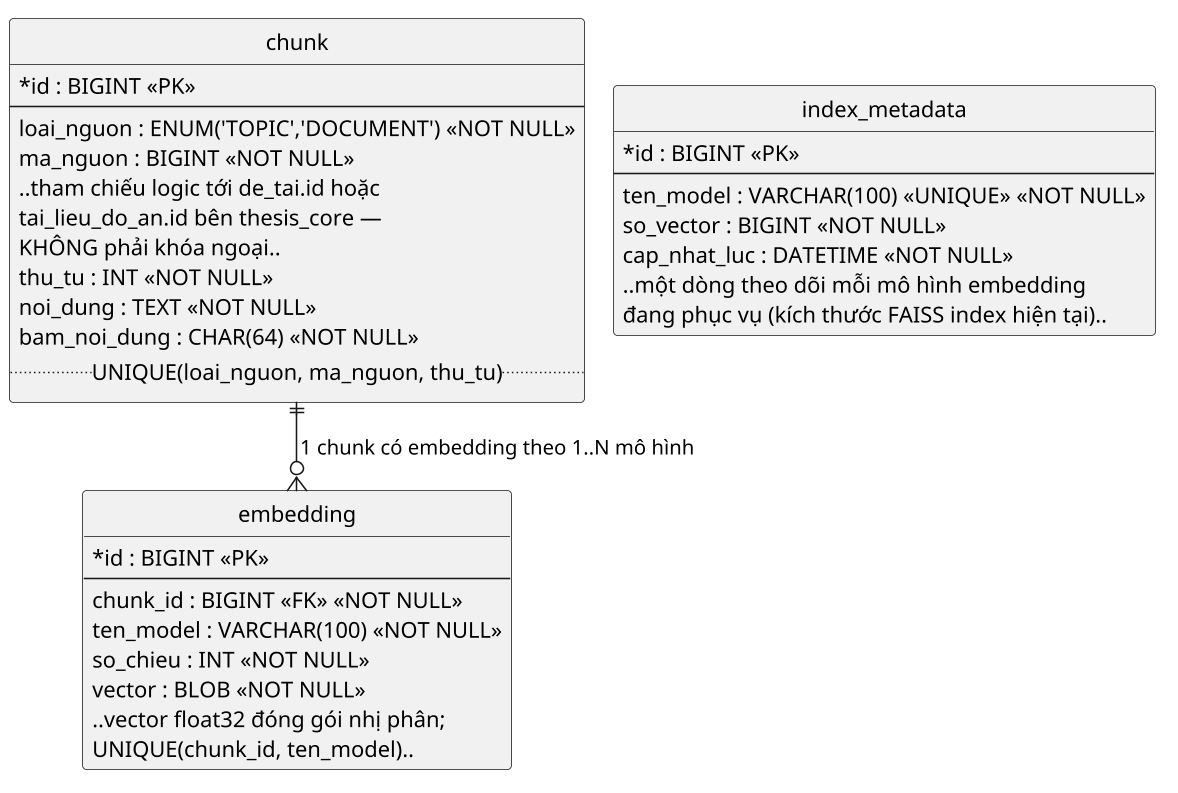
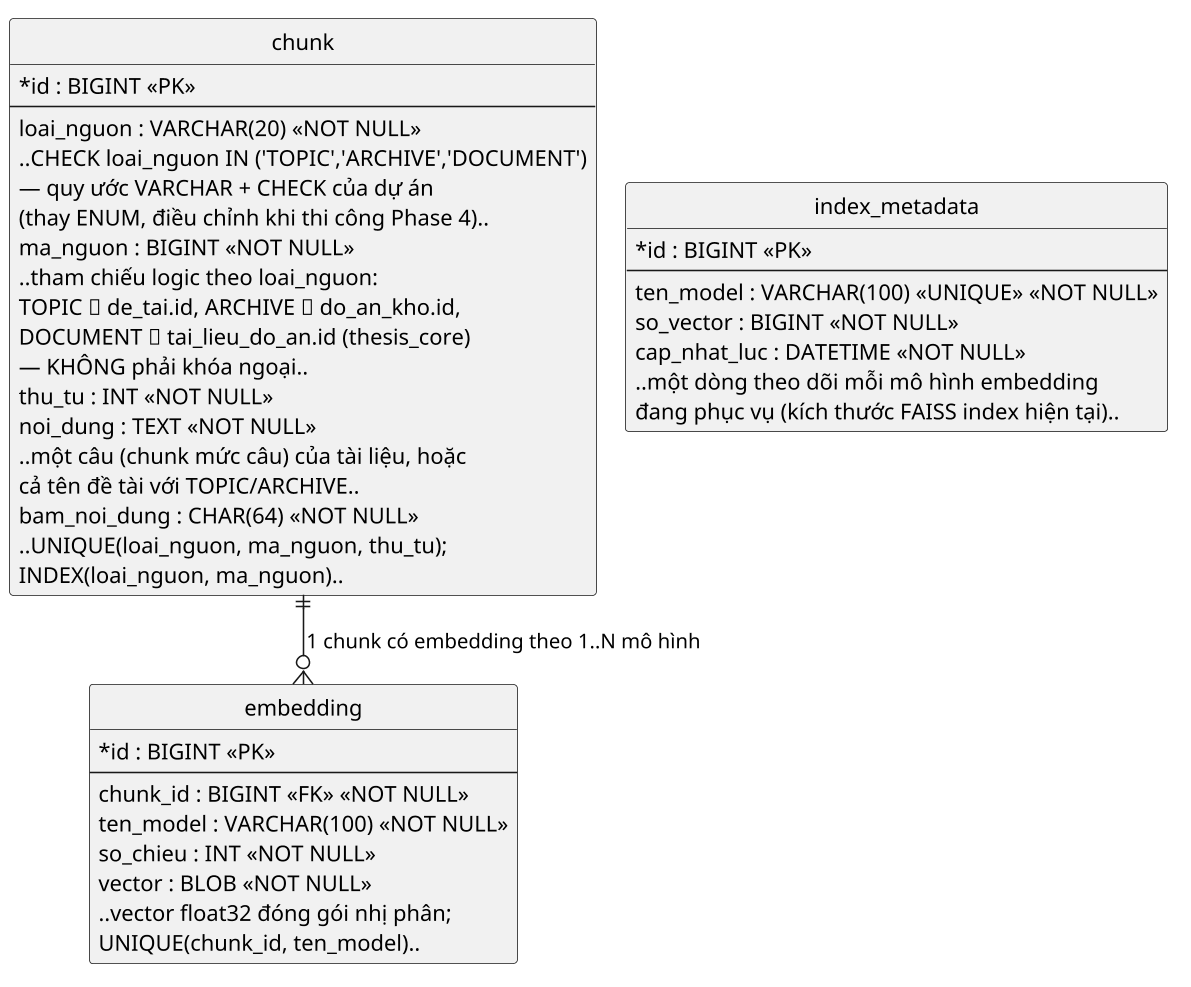
feat(04-07): chương 3 write-back, chương 4 AI index, deploy README AI section
- erd-thesis-ai: loai_nguon VARCHAR(20)+CHECK TOPIC/ARCHIVE/DOCUMENT, three
  id namespaces, sentence-level chunks; re-rendered png/svg
- §3.2.3 cau_hinh_nguong meanings (NGUONG_DOAN_TRUNG, UC0.4 per request);
  §3.2.6 id namespaces, /ingest replace semantics, rebuild at startup, model
- §3.3.5 additive contract fields; §3.3.8 per-request thresholds (D-04) and
  single-worker in-memory index
- docs/chuong-4-trien-khai/thu-nghiem-ai/README.md index + reproduction order;
  docs/README.md map
- deploy/README.md: AI services, env keys, AI_CLIENT=stub fallback, model
  pre-download, seed/backfill/reindex, e2e-ai + ai-nfr (never in parallel:
  shared DTC225200095/GV023), reserved accounts, known limitations (archive
  delete keeps vectors), 'Kịch bản demo AI' SC1-SC5

Changed region(s): [[0.0, 0.0, 0.5806, 0.9987], [0.5195, 0.1816, 0.9779, 0.454], [0.6723, 0.1211, 0.8251, 0.1513]]

diff --git a/docs/chuong-3-thiet-ke/02-thiet-ke-csdl.md b/docs/chuong-3-thiet-ke/02-thiet-ke-csdl.md
@@ -248,7 +248,7 @@ Lược đồ `thesis_core` gồm 19 bảng, khớp 1-1 với 19 lớp thực th
 | Cột | Kiểu | Null | Khóa | Mô tả |
 |---|---|---|---|---|
 | id | BIGINT | Không | PK | Định danh cấu hình |
-| loai | VARCHAR(30) | Không | UNIQUE | `NGUONG_TEN_DE_TAI` / `NGUONG_TAI_LIEU` / `NGUONG_DOAN_TRUNG` (ngưỡng ngữ nghĩa từng đoạn, Phase 4) — mỗi loại đúng 1 dòng hiện hành; giá trị mặc định lấy từ hiệu chỉnh (Alembic 0010: 67,8 / 10,4 / 67,7) |
+| loai | VARCHAR(30) | Không | UNIQUE | Mỗi loại đúng 1 dòng hiện hành: `NGUONG_TEN_DE_TAI` — tên đề tài có độ tương đồng ngữ nghĩa từ giá trị này trở lên được cảnh báo khi đề xuất/đăng ký (UC0.6); `NGUONG_TAI_LIEU` — tỷ lệ trùng tổng của đề cương/báo cáo từ giá trị này trở lên là "Vượt ngưỡng cảnh báo" (UC0.7, chụp vào `nguong_ap_dung`); `NGUONG_DOAN_TRUNG` — một câu có độ tương đồng ngữ nghĩa với đồ án đã lưu từ giá trị này trở lên được tính là đoạn trùng (gửi sang Dịch vụ AI dưới tên `nguong_doan`; bổ sung khi thi công Phase 4, D-04). Giá trị mặc định lấy từ hiệu chỉnh (Alembic 0010: 67,8 / 10,4 / 67,7); Bộ môn sửa cả ba trên màn hình UC0.4 (`GET/PUT /api/thresholds`), Web API đọc lại theo từng request nên lần kiểm tra kế tiếp dùng giá trị mới |
 | gia_tri | DECIMAL(5,2) | Không | — | Giá trị ngưỡng % (0–100, FR-AI-05) |
 | tai_khoan_id | BIGINT | Có | FK → tai_khoan | Người (Bộ môn) cập nhật lần gần nhất |
 | thoi_diem_cap_nhat | DATETIME | Không | — | Thời điểm lưu cấu hình |
@@ -319,8 +319,14 @@ Schema `thesis_ai` thuộc sở hữu riêng của Dịch vụ AI, tách biệt 
 
 | Bảng | Cột chính | Mô tả |
 |---|---|---|
-| chunk | id, loai_nguon, ma_nguon, thu_tu, noi_dung, bam_noi_dung | Một đoạn văn bản đã tách (tiêu đề = 1 chunk loại `TOPIC`; tài liệu = nhiều chunk loại `DOCUMENT` theo đoạn văn). `ma_nguon` là số tham chiếu logic tới `de_tai.id` hoặc `tai_lieu_do_an.id` bên `thesis_core`, gửi kèm trong payload `/ingest` — **không phải khóa ngoại thật**, giữ đúng ranh giới schema |
-| embedding | id, chunk_id (FK → chunk), ten_model, so_chieu, vector | Vector embedding của một chunk theo một mô hình cụ thể; `vector` là mảng `float32` đóng gói nhị phân trong `BLOB`; UNIQUE(chunk_id, ten_model) để tránh tính trùng embedding cho cùng một chunk + mô hình |
+| chunk | id, loai_nguon, ma_nguon, thu_tu, noi_dung, bam_noi_dung | Một đơn vị văn bản đã tách. `loai_nguon` là `VARCHAR(20)` + CHECK `TOPIC` / `ARCHIVE` / `DOCUMENT` (quy ước VARCHAR + CHECK của dự án thay cho ENUM). Tên đề tài hiện hành (`TOPIC`) và tên đồ án trong kho (`ARCHIVE`) là 1 chunk; đề cương/báo cáo (`DOCUMENT`) là nhiều chunk **mức câu** sau khi lọc phần mẫu chung. `ma_nguon` là số tham chiếu logic theo `loai_nguon` — `de_tai.id`, `do_an_kho.id` hoặc `tai_lieu_do_an.id` bên `thesis_core` (ba không gian id riêng), gửi kèm trong payload `/ingest` — **không phải khóa ngoại thật**, giữ đúng ranh giới schema. `bam_noi_dung` (SHA-256) để ingest lại nội dung không đổi thì không encode lại |
+| embedding | id, chunk_id (FK → chunk), ten_model, so_chieu, vector | Vector embedding của một chunk theo một mô hình cụ thể (`ten_model`, vd. `bkai-foundation-models/vietnamese-bi-encoder`); `vector` là mảng `float32` đóng gói nhị phân trong `BLOB`; UNIQUE(chunk_id, ten_model) để tránh tính trùng embedding cho cùng một chunk + mô hình; đổi mô hình thì `/reindex` encode bổ sung các chunk còn thiếu vector của mô hình mới |
 | index_metadata | id, ten_model, so_vector, cap_nhat_luc | Một dòng theo dõi mỗi mô hình embedding đang phục vụ: tổng số vector hiện có trong chỉ mục FAISS trong bộ nhớ và thời điểm cập nhật gần nhất — dùng để phát hiện lệch giữa CSDL và chỉ mục trong bộ nhớ sau khi khởi động lại dịch vụ |
 
-Chi tiết luồng `/ingest` (push-on-write) và cách chỉ mục FAISS được xây lại từ `thesis_ai` khi Dịch vụ AI khởi động nằm ở §3.3.5/§3.3.8.
+Điều chỉnh khi thi công Phase 4 (bổ sung, không đổi ranh giới schema):
+
+- **Ba không gian id.** Cặp (`loai_nguon`, `ma_nguon`) mới xác định một nguồn; cùng số `12` có thể là đề tài 12, bản ghi kho 12 và tài liệu 12 — Web API luôn ánh xạ ngược theo `loai` trả về (WR-06).
+- **Ngữ nghĩa thay thế của `/ingest`.** Ingest lại (`loai_nguon`, `ma_nguon`) xóa toàn bộ chunk cũ của nguồn đó rồi ghi chunk mới trong một transaction; văn bản rỗng để lại nguồn không còn chunk (cách Web API gỡ vector khi dọn dữ liệu kiểm thử). Mỗi lần ingest có thay đổi gọi mô hình đúng một lần (NFR-11).
+- **Dựng lại từ CSDL lúc khởi động.** Chỉ mục FAISS (`IndexFlatIP`) và ma trận MinHash nằm trong bộ nhớ, được dựng lại từ `chunk` + `embedding` của mô hình hiện hành khi Dịch vụ AI khởi động — không encode lại; chữ ký MinHash không được lưu mà tính lại từ `noi_dung`.
+
+Chi tiết luồng `/ingest` (push-on-write) và hợp đồng API nằm ở §3.3.5/§3.3.8.

diff --git a/docs/chuong-4-trien-khai/thu-nghiem-ai/README.md b/docs/chuong-4-trien-khai/thu-nghiem-ai/README.md
@@ -1,0 +1,62 @@
+# Thử nghiệm dịch vụ AI kiểm tra trùng lặp — mục lục
+
+> **Mã PI:** 3.4, 4.1, 4.2 — **Yêu cầu:** AISV-01..AISV-07, DATA-02, DATA-03, NFR-07..NFR-11
+
+Thư mục này là phần "thử nghiệm và đánh giá" của dịch vụ AI (Phase 4) cho chương 4 báo cáo. Mỗi trang dưới đây do một công cụ trong repo sinh hoặc đo lại, nên chạy lại đúng các lệnh ở mục cuối sẽ cho lại cùng số liệu (trên cùng bộ dữ liệu sinh với hạt giống cố định).
+
+## Các trang
+
+| Trang | Nội dung | PI | Yêu cầu |
+|---|---|---|---|
+| [01-du-lieu-thu-nghiem.md](01-du-lieu-thu-nghiem.md) | Bộ dữ liệu: kho 300 đề tài khóa K18–K22, 50 tài liệu DOCX/PDF thành 25 cặp với phổ trùng lặp chủ đích (chép nguyên văn, diễn đạt lại, cùng lĩnh vực, không liên quan), tách tập hiệu chỉnh / kiểm chứng | 4.2 | DATA-02, DATA-03 |
+| [02-so-sanh-mo-hinh-embedding.md](02-so-sanh-mo-hinh-embedding.md) | So sánh `bkai-foundation-models/vietnamese-bi-encoder` (+ tách từ underthesea) với `intfloat/multilingual-e5-base`: độ tách (AUC, khoảng cách điểm) và độ trễ; lý do chốt bkai | 3.4 | AISV-03, AISV-04 |
+| [03-hieu-chinh-nguong.md](03-hieu-chinh-nguong.md) | Hiệu chỉnh ngưỡng tên đề tài, ngưỡng đoạn (ngữ nghĩa), ngưỡng nguyên văn (MinHash) và ngưỡng cảnh báo tài liệu trên tập hiệu chỉnh; kiểm chứng trên tập giữ lại; hạn chế | 3.4 | DATA-03, AISV-03, AISV-04 |
+| [04-hieu-nang-va-bao-mat.md](04-hieu-nang-va-bao-mat.md) | Đo trên stack chạy thật: cô lập dịch vụ AI (NFR-07), thời gian kiểm tra tên (NFR-08), nộp → hoàn tất (NFR-09), phản hồi nộp (NFR-10), một lần encode mỗi ingest (NFR-11), bộ nhớ | 3.4, 4.1 | AISV-01, AISV-02, AISV-03, AISV-06 |
+
+Các giá trị hiệu chỉnh ở trang 03 là giá trị **đề xuất** hiện trên màn hình cấu hình ngưỡng của Bộ môn (UC0.4, AISV-07); Bộ môn có thể sửa, lần kiểm tra kế tiếp áp dụng giá trị mới, kết quả cũ giữ ngưỡng lúc kiểm tra.
+
+## Chạy lại theo thứ tự
+
+1. Sinh bộ dữ liệu (không cần docker):
+
+   ```bash
+   uv --directory tools/datagen run python -m datagen all --out ../../seed-data
+   uv --directory tools/datagen run python -m datagen check --data ../../seed-data
+   ```
+
+2. So sánh mô hình (mỗi profile một tiến trình riêng, cần vài GiB RAM trống):
+
+   ```bash
+   uv --directory tools/bakeoff run python bakeoff.py --all
+   uv --directory tools/bakeoff run python bakeoff.py --decide
+   ```
+
+3. Hiệu chỉnh và kiểm chứng ngưỡng (từ `ai-service/`):
+
+   ```bash
+   uv --directory ai-service run python calibration/calibrate.py tune --data ../seed-data \
+     --profile-from ../tools/bakeoff/ket-qua.json --out calibration
+   uv --directory ai-service run python calibration/calibrate.py evaluate --data ../seed-data \
+     --profile-from ../tools/bakeoff/ket-qua.json --out calibration \
+     --report ../docs/chuong-4-trien-khai/thu-nghiem-ai/03-hieu-chinh-nguong.md --apply
+   ```
+
+4. Nạp kho vào stack đang chạy (idempotent: 300 đề tài kho, 25 đồ án nguồn có báo cáo, backfill chỉ mục):
+
+   ```bash
+   bash deploy/seed-ai.sh
+   ```
+
+5. Kiểm thử đầu-cuối với dịch vụ AI thật (SC1–SC5: tên diễn đạt lại, bảo mật, ngưỡng do Bộ môn đặt, push-on-write, tài liệu chép nguyên văn):
+
+   ```bash
+   bash deploy/e2e-ai.sh
+   ```
+
+6. Đo hiệu năng/bảo mật và ghi lại trang 04:
+
+   ```bash
+   bash deploy/ai-nfr.sh --report docs/chuong-4-trien-khai/thu-nghiem-ai/04-hieu-nang-va-bao-mat.md
+   ```
+
+`e2e-ai.sh` và `ai-nfr.sh` dùng chung tài khoản `DTC225200095` và `GV023` — **không chạy song song hai script**.

diff --git a/docs/README.md b/docs/README.md
@@ -31,6 +31,9 @@ docs/
 │   ├── 02-thiet-ke-csdl.md             §3.2 Thiết kế CSDL
 │   ├── 03-kien-truc-he-thong.md        §3.3 Kiến trúc SOA (plan 01-05)
 │   └── 04-thiet-ke-giao-dien.md        §3.4 Thiết kế giao diện (mockup)
+├── chuong-4-trien-khai/               Chương 4 báo cáo: Triển khai & thử nghiệm
+│   └── thu-nghiem-ai/                 Trang đánh giá dịch vụ AI (Phase 4): dữ liệu, so sánh
+│                                       mô hình, hiệu chỉnh ngưỡng, hiệu năng & bảo mật (README.md = mục lục)
 └── (tai-lieu-goc/ nằm ở gốc repo, không phải trong docs/ — xem README riêng của nó)
 ```
 
